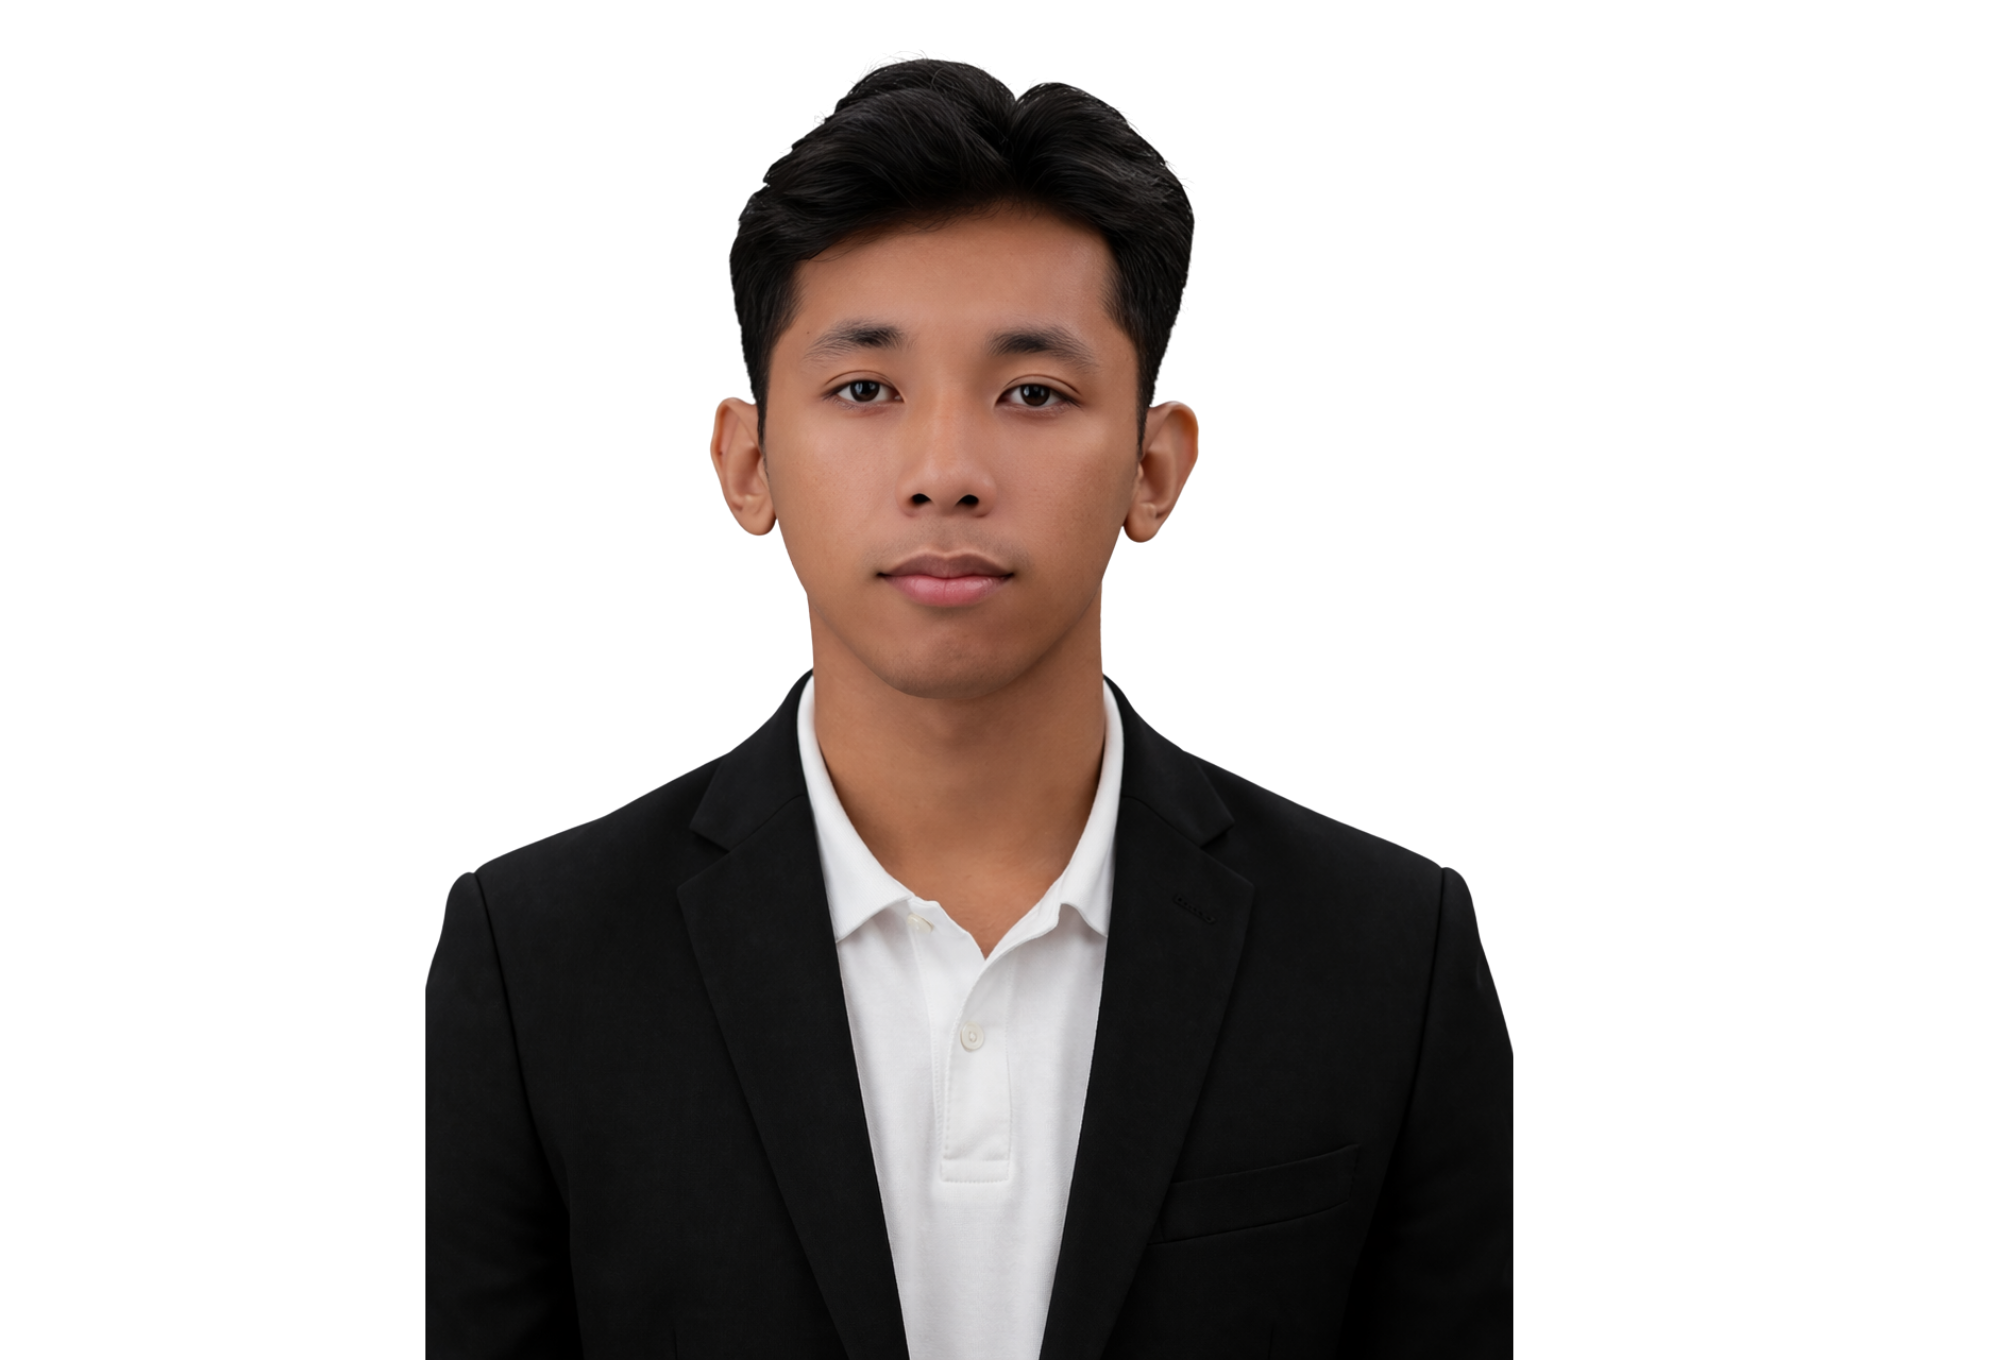
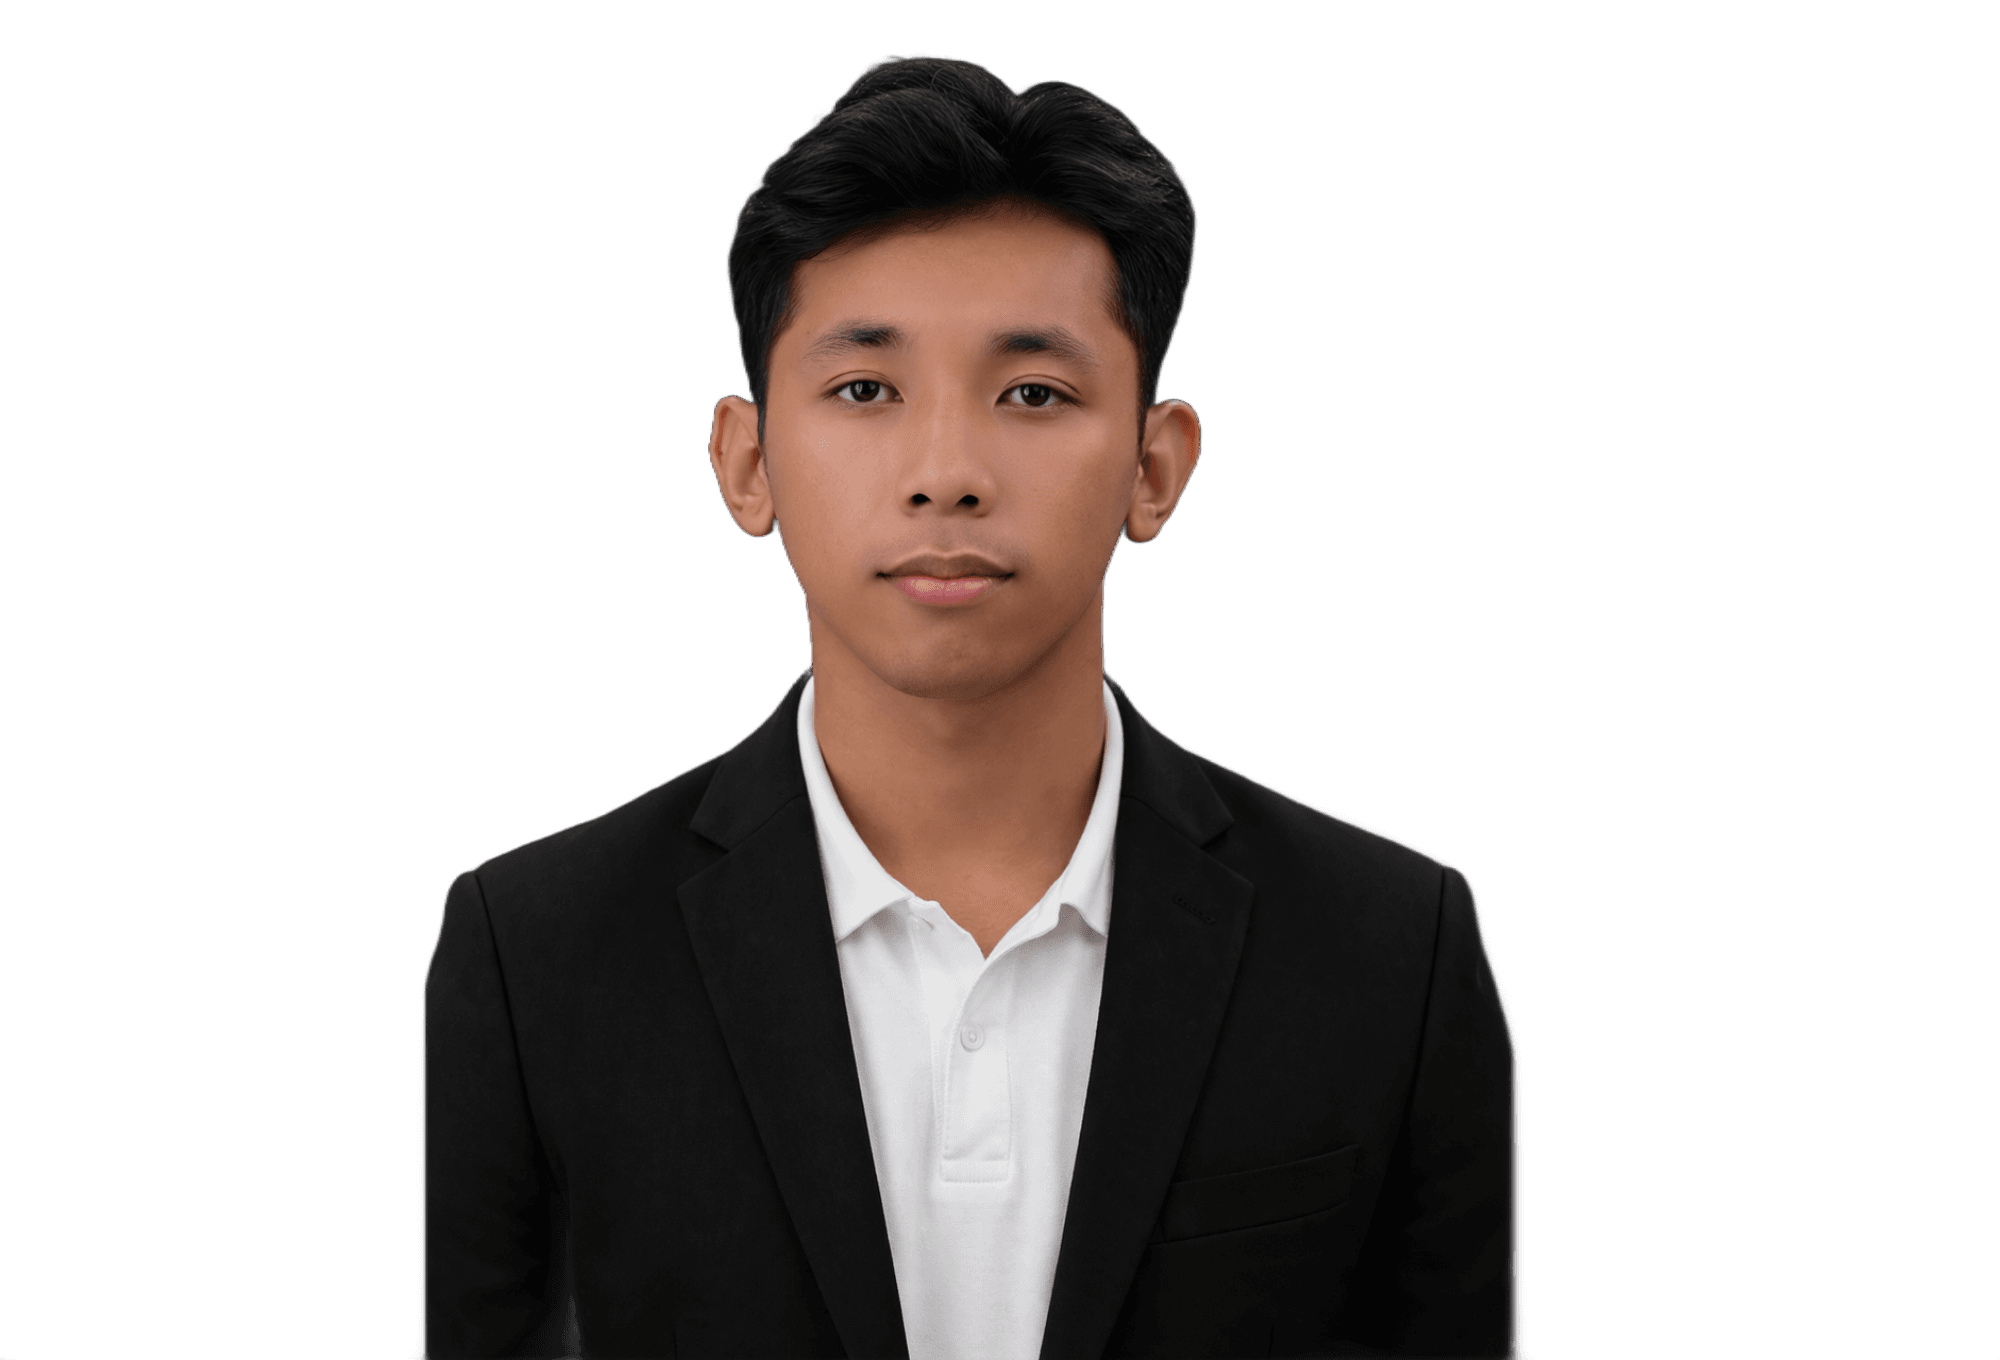
Portfolio Update

diff --git a/src/components/layout/Navbar.jsx b/src/components/layout/Navbar.jsx
@@ -1,6 +1,7 @@
+import { useLayoutEffect, useRef, useState } from 'react';
 import { profile } from '../../data/resume';
 import { useActiveSection } from '../../hooks/useActiveSection';
-import { ResumeButton } from '../ui/ResumeButton';
+import lowisImg from '../../assets/lowis.png';
 
 const LINKS = [
   { id: 'experience', label: 'Experience' },
@@ -12,26 +13,58 @@ const LINKS = [
 const IDS = LINKS.map((l) => l.id);
 
 export function Navbar() {
-  const active = useActiveSection(IDS);
+  const scrollActive = useActiveSection(IDS);
+  const [clicked, setClicked] = useState(null);
+  const [hovered, setHovered] = useState(null);
+  const [pill, setPill] = useState(null);
+  const [pressKey, setPressKey] = useState(0);
+  const itemRefs = useRef({});
+
+  const active = clicked ?? scrollActive;
+  const target = hovered ?? active;
+
+  if (clicked && scrollActive === clicked) setClicked(null);
+
+  useLayoutEffect(() => {
+    const el = target && itemRefs.current[target];
+    if (!el) return setPill(null);
+    setPill({ left: el.offsetLeft, width: el.offsetWidth });
+  }, [target]);
 
   return (
     <nav className="fixed inset-x-0 top-0 z-40 border-b border-neutral-200/70 bg-white/80 backdrop-blur-md print:hidden">
       <div className="mx-auto flex h-14 max-w-5xl items-center justify-between gap-6 px-5 sm:px-8">
         <a href="#top" className="flex items-center gap-2.5 text-sm font-semibold tracking-tight text-neutral-950">
-          <span className="grid size-7 place-items-center rounded-md bg-neutral-950 font-mono text-[11px] text-white">
-            LC
-          </span>
+          <img src={lowisImg} alt="" className="size-8 rounded-full object-cover object-top" />
           <span className="hidden sm:inline">{profile.name}</span>
         </a>
 
-        <ul className="hidden items-center gap-1 text-sm md:flex">
+        <ul
+          onMouseLeave={() => setHovered(null)}
+          className="relative hidden items-center gap-1 text-sm md:flex"
+        >
+          {pill && (
+            <span
+              aria-hidden
+              key={pressKey}
+              className={`pointer-events-none absolute inset-y-0 my-auto h-8 rounded-md transition-[left,width,background-color] duration-300 ease-[cubic-bezier(0.3,1.2,0.4,1)] ${
+                hovered && hovered !== active ? 'bg-neutral-100' : 'nav-pill-press bg-neutral-200/70'
+              }`}
+              style={{ left: pill.left, width: pill.width }}
+            />
+          )}
           {LINKS.map((l) => (
-            <li key={l.id}>
+            <li key={l.id} ref={(el) => (itemRefs.current[l.id] = el)}>
               <a
                 href={`#${l.id}`}
                 aria-current={active === l.id ? 'true' : undefined}
-                className={`rounded-md px-3 py-1.5 transition ${
-                  active === l.id ? 'bg-neutral-100 text-neutral-950' : 'text-neutral-500 hover:text-neutral-950'
+                onMouseEnter={() => setHovered(l.id)}
+                onClick={() => {
+                  setClicked(l.id);
+                  setPressKey((k) => k + 1);
+                }}
+                className={`relative block rounded-md px-3 py-1.5 transition-colors duration-200 active:scale-95 ${
+                  active === l.id || hovered === l.id ? 'text-neutral-950' : 'text-neutral-500'
                 }`}
               >
                 {l.label}
@@ -39,10 +72,6 @@ export function Navbar() {
             </li>
           ))}
         </ul>
-
-        <ResumeButton className="rounded-lg border border-neutral-300 px-3 py-1.5 text-sm font-medium text-neutral-900 transition hover:border-neutral-950">
-          Download CV
-        </ResumeButton>
       </div>
     </nav>
   );

diff --git a/src/data/resume.js b/src/data/resume.js
@@ -1,5 +1,3 @@
-// All résumé content lives here. Components only render what's in this file.
-// Anything marked REPLACE is a placeholder — swap it for your real details before deploying.
 
 export const profile = {
   name: 'Louis Caballero',
@@ -8,18 +6,15 @@ export const profile = {
   summary:
     'I build and ship production web apps end to end, from database schema to deployed UI. I care about fast, accessible interfaces and code the next developer can pick up without a walkthrough.',
   location: 'Iloilo, Philippines',
-  availability: 'Open to full-time roles', // set to '' to hide the badge
+  availability: 'Open to full-time roles',
   email: 'louiscaballero321@gmail.com',
   links: {
     github: 'https://github.com/Shirozou',
     linkedin: 'https://www.linkedin.com/in/REPLACE',
   },
-  // Put your PDF in /public (e.g. /public/Louis-Caballero-Resume.pdf) and set this to '/Louis-Caballero-Resume.pdf'.
-  // While empty, the Résumé button prints this page, which has a print layout.
   resumeUrl: '',
 };
 
-// The four numbers a recruiter reads first. Keep them honest and checkable.
 export const highlights = [
   { value: '3+', label: 'Years building for the web' },
   { value: '10', label: 'Projects completed' },
@@ -27,18 +22,17 @@ export const highlights = [
   { value: 'Front & Back', label: 'React front end, Node back end' },
 ];
 
-// Most recent first. Bullets: start with a verb, end with a result (a number if you have one).
 export const experience = [
   {
     role: 'Roblox Game Developer',
     company: 'Roblox',
     url: '',
-    period: 'Present', // add a start year, e.g. '2023 — Present'
+    period: 'Present',
     location: 'Remote',
     current: true,
     bullets: [
-      'Build and script game systems in Roblox Studio using Luau.', // REPLACE with what you shipped
-      'Add a result here: a game you released, player count, visits, or a system you designed.', // REPLACE
+      'Build and script game systems in Roblox Studio using Luau.',
+      'Add a result here: a game you released, player count, visits, or a system you designed.',
     ],
     stack: ['Luau', 'Roblox Studio'],
   },
@@ -65,14 +59,17 @@ export const education = [
     period: '2024 — Present',
     notes: '3rd-year student.',
   },
+  {
+    degree: 'Senior High School',
+    school: 'Oton National High School',
+    period: '2022 — 2024',
+    notes: 'STEM',
+  },
 ];
 
-// Leave the array empty to hide the block.
 export const certifications = [
-  // { name: 'Responsive Web Design', issuer: 'freeCodeCamp', year: '2023', url: '' },
 ];
 
-// level: 'core' = you use it daily and can be interviewed on it. 'familiar' = you've shipped with it but would ramp up.
 export const skills = [
   {
     category: 'Languages',

diff --git a/src/components/ui/ProjectModal.jsx b/src/components/ui/ProjectModal.jsx
@@ -11,7 +11,6 @@ function Block({ title, children }) {
   );
 }
 
-// Native <dialog>: gives us focus trapping, Esc-to-close and a top layer for free.
 export function ProjectModal({ project, next, onClose, onNext }) {
   const dialogRef = useRef(null);
   const bodyRef = useRef(null);
@@ -33,7 +32,6 @@ export function ProjectModal({ project, next, onClose, onNext }) {
     >
       {project && (
         <div className="flex max-h-[inherit] flex-col">
-          {/* Header */}
           <div className="border-b border-neutral-200 px-5 pt-5 pb-5 sm:px-8 sm:pt-7">
             <div className="flex items-start justify-between gap-4">
               <p className="font-mono text-[11px] tracking-wide text-neutral-400 uppercase">
@@ -79,7 +77,6 @@ export function ProjectModal({ project, next, onClose, onNext }) {
             )}
           </div>
 
-          {/* Body */}
           <div ref={bodyRef} className="flex-1 space-y-8 overflow-y-auto overscroll-contain px-5 py-6 sm:px-8 sm:py-8">
             <ProjectPreview project={project} />
 
@@ -148,7 +145,6 @@ export function ProjectModal({ project, next, onClose, onNext }) {
             </Block>
           </div>
 
-          {/* Footer */}
           {next && (
             <button
               type="button"

diff --git a/src/index.css b/src/index.css
@@ -10,7 +10,6 @@ html {
   background: #fff;
 }
 
-/* Lock page scroll while a project case study is open */
 html:has(dialog[open]) {
   overflow: hidden;
 }
@@ -31,7 +30,6 @@ html:has(dialog[open]) {
   background-size: 14px 14px;
 }
 
-/* Section reveal: subtle, and skipped entirely for reduced motion and print */
 .reveal-on-scroll {
   opacity: 0;
   transform: translateY(12px);
@@ -42,7 +40,6 @@ html:has(dialog[open]) {
   transform: none;
 }
 
-/* Case-study dialog entrance */
 .project-dialog[open] {
   animation: dialog-in 220ms cubic-bezier(0.2, 0.8, 0.2, 1);
 }
@@ -62,9 +59,19 @@ html:has(dialog[open]) {
   .project-dialog[open], .project-dialog[open]::backdrop { animation: none; }
 }
 
-/* "Download résumé" falls back to printing this page */
 @media print {
   @page { margin: 14mm; }
   html { font-size: 13px; }
   .reveal-on-scroll { opacity: 1 !important; transform: none !important; }
+}
+
+.nav-pill-press {
+  animation: nav-pill-press 320ms cubic-bezier(0.3, 1.4, 0.5, 1);
+}
+@keyframes nav-pill-press {
+  0% { transform: scale(0.92); }
+  100% { transform: scale(1); }
+}
+@media (prefers-reduced-motion: reduce) {
+  .nav-pill-press { animation: none; }
 }

diff --git a/src/data/projects.js b/src/data/projects.js
@@ -1,10 +1,3 @@
-// Each project renders as a card. Clicking it opens a case study built from the same object.
-// The detail copy below is example text — REPLACE it with what you actually built.
-//
-//   live    → your Vercel URL, e.g. 'https://my-app.vercel.app' (the "Live site" button hides while empty)
-//   repo    → GitHub URL (hidden while empty)
-//   builtTitle → optional heading for the `built` list (defaults to 'What I built'; use 'What we built' for team projects)
-//   image   → optional screenshot: put it in src/assets, import it below, and use the import (16:10 works best)
 
 import teechImg from '../assets/teech.png';
 import suepsImg from '../assets/SUEPS.png';
@@ -17,7 +10,7 @@ export const projectsData = [
     summary: 'Consultation booking app that lets students book time with their teachers without the back-and-forth messaging.',
     year: '2026',
     type: 'Group project',
-    role: 'Team member', // REPLACE with the parts you owned, e.g. 'Front end & Supabase integration'
+    role: 'Team member',
     timeline: '6 weeks',
     live: 'https://teech-app.vercel.app/',
     repo: 'https://github.com/Aelowww/Teech',

diff --git a/index.html b/index.html
@@ -2,11 +2,11 @@
 <html lang="en">
   <head>
     <meta charset="UTF-8" />
-    <link rel="icon" type="image/svg+xml" href="/favicon.svg" />
+    <link rel="icon" type="image/png" href="/favicon.png" />
     <meta name="viewport" content="width=device-width, initial-scale=1.0" />
-    <title>Louis Caballero · Front-End & Back-End Developer</title>
+    <title>louis.dev</title>
     <meta name="description" content="Louis Caballero, front-end and back-end developer (React, Node.js, MongoDB). Experience, selected work and résumé." />
-    <meta property="og:title" content="Louis Caballero · Front-End & Back-End Developer" />
+    <meta property="og:title" content="louis.dev" />
     <meta property="og:description" content="Experience, selected work and résumé." />
     <meta name="theme-color" content="#ffffff" />
     <link rel="preconnect" href="https://fonts.googleapis.com" />

diff --git a/src/pages/Home.jsx b/src/pages/Home.jsx
@@ -56,11 +56,10 @@ export function Home() {
         <img
           src={lowisImg}
           alt={profile.name}
-          className="size-20 rounded-2xl bg-neutral-100 object-cover ring-1 ring-neutral-200 sm:size-28 print:hidden"
+          className="size-48 object-cover object-top sm:size-64 lg:size-80 print:hidden"
         />
       </div>
 
-      {/* At a glance */}
       <dl className="mt-14 grid grid-cols-2 gap-px overflow-hidden rounded-xl border border-neutral-200 bg-neutral-200 sm:grid-cols-4 print:mt-8">
         {highlights.map((h) => (
           <div key={h.label} className="bg-white px-5 py-5">

diff --git a/src/components/ui/ResumeButton.jsx b/src/components/ui/ResumeButton.jsx
@@ -1,7 +1,6 @@
 import { profile } from '../../data/resume';
 import { Download } from './Icons';
 
-// Downloads the PDF when profile.resumeUrl is set; otherwise prints the page (which has a print layout).
 export function ResumeButton({ className = '', children = 'Download CV' }) {
   const content = (
     <>

diff --git a/src/hooks/useActiveSection.js b/src/hooks/useActiveSection.js
@@ -1,7 +1,5 @@
 import { useEffect, useState } from 'react';
 
-// Returns the id of the section currently crossing the middle of the viewport.
-// `ids` must be a stable array (define it at module level).
 export function useActiveSection(ids) {
   const [active, setActive] = useState(null);
 

diff --git a/src/components/ui/ProjectCard.jsx b/src/components/ui/ProjectCard.jsx
@@ -8,7 +8,6 @@ const hostOf = (url) => {
   }
 };
 
-// Screenshot if one is provided, otherwise a quiet browser-frame placeholder.
 export function ProjectPreview({ project, className = '' }) {
   const host = hostOf(project.live) || `${project.slug}.vercel.app`;
 

diff --git a/vite.config.js b/vite.config.js
@@ -2,7 +2,6 @@ import react, { reactCompilerPreset } from '@vitejs/plugin-react'
 import babel from '@rolldown/plugin-babel'
 import { defineConfig } from 'vite'
 
-// https://vite.dev/config/
 export default defineConfig({
   plugins: [
     react(),

diff --git a/src/components/ui/Section.jsx b/src/components/ui/Section.jsx
@@ -1,4 +1,3 @@
-// Résumé-style section: a sticky label in the left gutter, content on the right.
 export function Section({ id, index, label, children }) {
   return (
     <section
